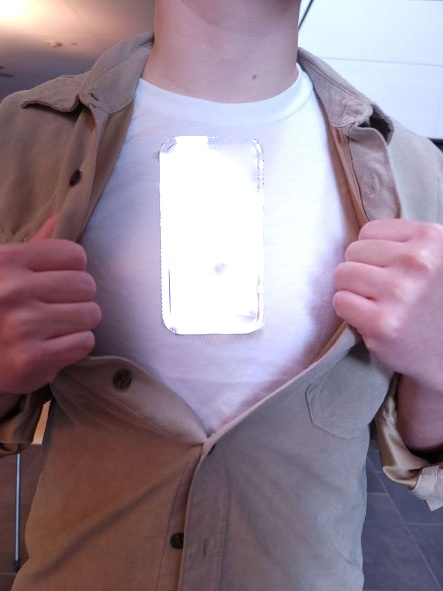
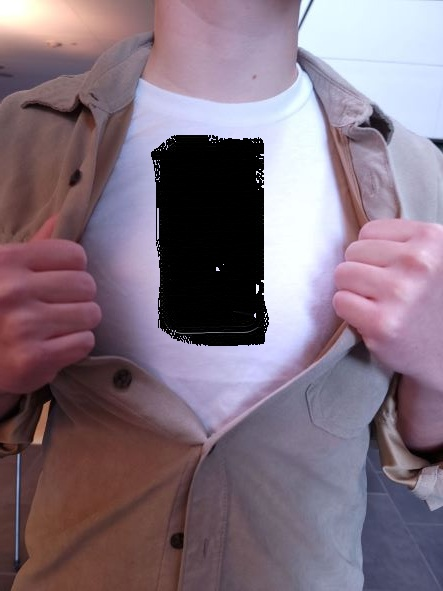
Added gradient mixing

Changed region(s): [[0.3228, 0.2132, 0.6163, 0.6091]]

diff --git a/HW1/Q1/main.py b/HW1/Q1/main.py
@@ -1,5 +1,4 @@
 import numpy as np
-from scipy.sparse import lil_matrix
 from scipy.sparse import linalg
 import cv2
 
@@ -24,14 +23,13 @@ def point_area(point, omega):
 def create_sparse_matrix(points):
     matrix = np.zeros((len(points),len(points)))
     for i, k in enumerate(points):
-        matrix[i, i] = 4
+        matrix[i, i] = -4
         x, y = k
         border = [(x+1,y),(x-1,y),(x,y+1),(x,y-1)]
         for point in border:
             if point in points:
                 index = points.index(point)
-                matrix[i, index] = -1
-    #matrix = lil_matrix(matrix)
+                matrix[i, index] = 1
     return matrix
 
 
@@ -46,8 +44,8 @@ def poisson_blend(source, target, mask):
         if point_area(k, mask) == 1:
             border = [(x+1,y),(x-1,y),(x,y+1),(x,y-1)]
             for p in border:
-                if mask[p] == False:
-                    matrixB[i] = matrixB[i] + target[p]
+                if mask[p] != 1:
+                    matrixB[i] = -1*matrixB[i] - target[p]
     
     unknown_values = linalg.cg(matrixA, matrixB)
     composite = np.copy(target).astype(int)
@@ -55,15 +53,33 @@ def poisson_blend(source, target, mask):
         composite[k] = unknown_values[0][i]
     return composite
     
+def compute_gradient(image, mask):
+    nonzero = np.nonzero(mask)
+    points = list(zip(nonzero[0], nonzero[1]))
+    gradient = np.zeros(len(points))
+    for i, k in enumerate(points):
+        x,y = k
+        gradient[i] = int(image[x,y]) - int(image[x-1,y])
+    return gradient
 
+def compute_vector(s_grad, t_grad, mask, target):
+    nonzero = np.nonzero(mask)
+    points = list(zip(nonzero[0], nonzero[1]))
+    vector_field =  np.copy(target).astype(int)
+    for i, k in enumerate(points):
+        x,y = k
+        vector_field[x,y] = max(s_grad[i], t_grad[i])
+        if i != 0:
+            vector_field[x-1,y] = vector_field[x,y] - vector_field[x-1,y]
+    return vector_field
 
 if __name__ == "__main__":
-    source_name = "source_q1(1).jpg"
-    target_name = "target_q1(1).jpg"
-    mask_name = "phone.jpg"
-    '''source_name = input("Enter file name of source image ")
+    #source_name = "source_q1(1).jpg"
+    #target_name = "target_q1(1).jpg"
+    #mask_name = "phone.jpg"
+    source_name = input("Enter file name of source image ")
     target_name = input("Enter file name of target image ")
-    mask_name = input("Enter file name of mask ")'''
+    mask_name = input("Enter file name of mask ")
 
     source_image = cv2.imread(source_name)
     target_image = cv2.imread(target_name)
@@ -77,7 +93,12 @@ if __name__ == "__main__":
     RGBchannels = np.atleast_1d(source_image).shape[-1]
     results = []
     for channel in range(RGBchannels):
-        results.append(poisson_blend(source[:,:,channel], target[:,:,channel], mask))
+        #Poisson w/o gradient mixing
+        #results.append(poisson_blend(source[:,:,channel], target[:,:,channel], mask))
+        #Gradient mixing
+        source_grad = compute_gradient(source[:,:,channel], mask)
+        target_grad = compute_gradient(target[:,:,channel], mask)
+        results.append(compute_vector(source_grad, target_grad, mask, target[:,:,channel]))
 
     result = cv2.merge(results)
     cv2.imwrite("output.jpg",result)
